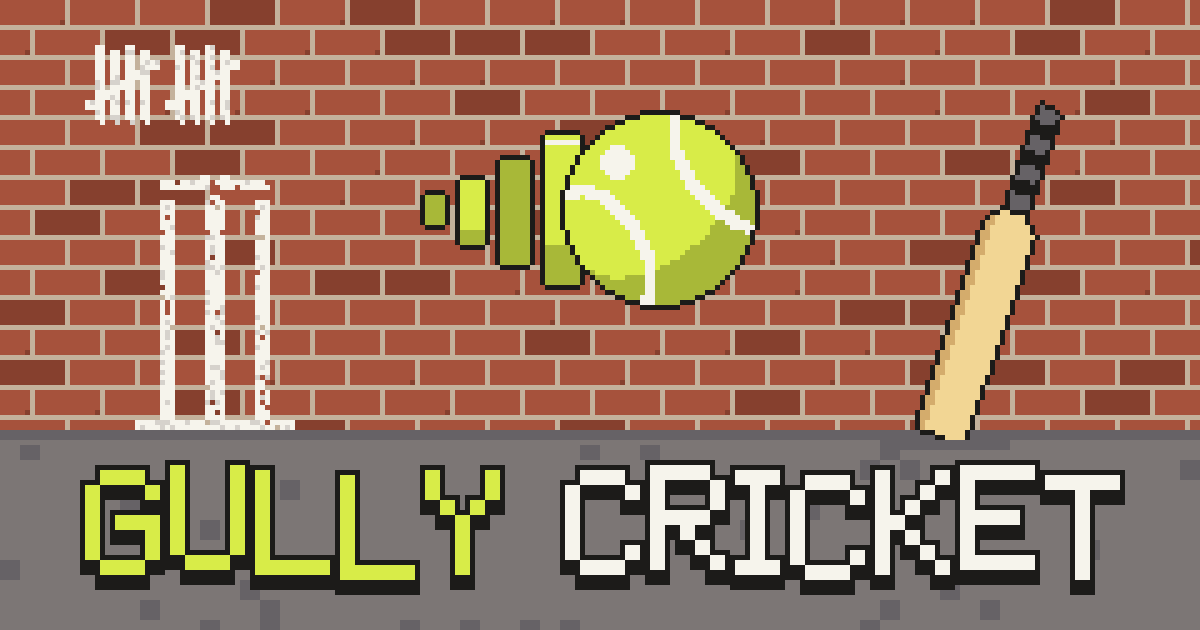
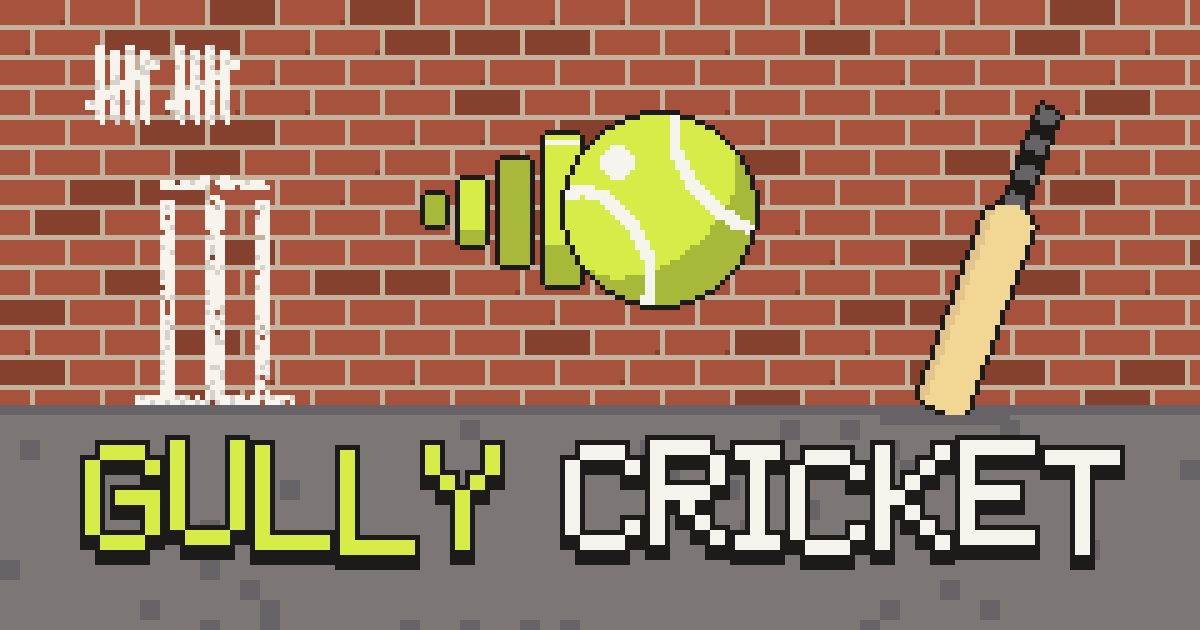
Link preview B: a batter mid-swing in front of the house fronts
A second candidate for the user to pick from (art-candidates/og-b.png). The script now fails if a title or the ball enters the 60px margin that some apps crop; that check moved A's lane and title up 5px. public/og.png stays on A until OG_PICK changes.

Agent-Id: agent-b7b191c9-51d8-4cb0-9921-bd785e0f64c9

Changed region(s): [[0.0, 0.2714, 1.0, 0.9651]]

diff --git a/scripts/make-art.js b/scripts/make-art.js
@@ -51,7 +51,7 @@ const P = {
   ball: '#d8ec48', ballShade: '#a8b838',
   brick: '#a6523c', brickDark: '#86402e', mortar: '#c4b29c',
   asphalt: '#7c7675', asphaltDark: '#666266',
-  blade: '#f2d694', bladeShade: '#d4ac6c',
+  blade: '#f2d694', bladeShade: '#e2c48c',   // the blade's shade is the plaster tone, to keep the palette small
   plaster: '#e2c48c', plasterShade: '#c8a46c', shutter: '#3e7468', door: '#3a6096',
   skin: '#c4926e', skinShade: '#9a6a4c', shirt: '#f6f4ec', shirtShade: '#d6d2cc',
 };
@@ -87,7 +87,23 @@ function title(g, text, x, y, s, gap, { fill = P.paper, edge = P.ink, drop = 2 }
   t.outline(edge, true);
   for (let d = drop; d >= 1; d--) g.draw(new Grid(t.w, t.h).draw(t).map(() => edge), x - 1, y - 2 + d);
   g.draw(t, x - 1, y - 2);
-  return { x0: x - 2, y0: y - 3, x1: x - 1 + t.w, y1: y - 2 + t.h + drop };
+  const b = inked(t);
+  return { x0: x - 1 + b.x0, y0: y - 2 + b.y0, x1: x - 1 + b.x1, y1: y - 2 + b.y1 + drop };
+}
+// the box around a grid's drawn pixels (x1, y1 exclusive)
+function inked(t) {
+  let x0 = t.w, y0 = t.h, x1 = 0, y1 = 0;
+  for (let y = 0; y < t.h; y++) for (let x = 0; x < t.w; x++) if (t.get(x, y) !== null) { x0 = Math.min(x0, x); y0 = Math.min(y0, y); x1 = Math.max(x1, x + 1); y1 = Math.max(y1, y + 1); }
+  return { x0, y0, x1, y1 };
+}
+// stop the build if a title or the ball strays into the margin that some apps crop
+function inSafe(name, b) {
+  if (b.x0 < SAFE || b.y0 < SAFE || b.x1 > OG_W - SAFE || b.y1 > OG_H - SAFE) throw new Error(`${name} leaves the safe area: ${JSON.stringify(b)}`);
+}
+function placeBall(g, ball, bx, by, name) {
+  const x = Math.round(bx - ball.w / 2), y = Math.round(by - ball.h / 2), b = inked(ball);
+  g.draw(ball, x, y);
+  inSafe(name, { x0: x + b.x0, y0: y + b.y0, x1: x + b.x1, y1: y + b.y1 });
 }
 
 /* The tennis ball seen at radius R: lit from the upper left, shaded underside, a white S-seam, ink outline.
@@ -119,8 +135,8 @@ function tennisBall(R, spin = .5, tilt = .55) {
 
 /* A stepped motion trail: blocks of shrinking height behind the ball, each a step smaller than the last.
    (x, y) is the ball's centre, r its radius, dir the direction it travels (+1 right, -1 left). */
-function trail(g, x, y, r, dir = 1) {
-  const steps = [[.78, 7], [.56, 6], [.34, 5], [.16, 4]];
+function trail(g, x, y, r, dir = 1, n = 4) {
+  const steps = [[.78, 7], [.56, 6], [.34, 5], [.16, 4]].slice(0, n);
   let edge = x - dir * (r - 3);
   steps.forEach(([k, w], i) => {
     const h = Math.round(r * 2 * k), top = Math.round(y - h / 2), gap = 3;
@@ -176,8 +192,9 @@ function bat(hx, hy, tx, ty, wide = 5.5) {
   return g.outline(P.ink);
 }
 
+const TITLE_A_Y = 89;
 function compositionA() {
-  const g = new Grid(OG_W, OG_H), groundY = 86;
+  const g = new Grid(OG_W, OG_H), groundY = 81;
   brickWall(g, 0, 0, OG_W, groundY);
   // the lane in front of the wall: a kerb line, then asphalt with a few patched squares
   g.rect(0, groundY, OG_W, OG_H - groundY, P.asphalt);
@@ -201,14 +218,102 @@ function compositionA() {
   // the ball in flight, centre right, with its trail back towards the stumps
   const R = 19, bx = 132, by = 42, ball = tennisBall(R, 1.75, .1);
   trail(g, bx, by, R, 1);
-  g.draw(ball, bx - ball.w / 2, by - ball.h / 2);
+  placeBall(g, ball, bx, by, 'A ball');
   // the title along the bottom
   const s = 3, gap = 2, w = textWidth('GULLY CRICKET', s, gap), x0 = Math.round((OG_W - w) / 2);
-  title(g, 'GULLY', x0, 94, s, gap, { fill: P.ball });
-  title(g, 'CRICKET', x0 + textWidth('GULLY ', s, gap) + gap, 94, s, gap);
+  inSafe('A title', title(g, 'GULLY', x0, TITLE_A_Y, s, gap, { fill: P.ball }));
+  inSafe('A title', title(g, 'CRICKET', x0 + textWidth('GULLY ', s, gap) + gap, TITLE_A_Y, s, gap));
   return g;
 }
 
-const candidates = { a: compositionA() };
+
+/* One body part: shapes drawn by fn into a fresh layer, an optional shade on one side of an axis, then an ink outline. */
+function part(w, h, fn) { const t = new Grid(w, h); fn(t); return t.outline(P.ink); }
+// a limb from (ax, ay) to (bx, by), shaded on the side the normal (sx, sy) points to
+function limb(t, ax, ay, bx, by, r, col, shade, side = 1, k = .3) {
+  t.capsule(ax, ay, bx, by, r, col);
+  const L = Math.hypot(bx - ax, by - ay), nx = -(by - ay) / L * side, ny = (bx - ax) / L * side;
+  t.map((c, x, y) => c === col && ((x + .5 - ax) * nx + (y + .5 - ay) * ny) > r * k ? shade : c);
+}
+
+/* The batter, facing right, just after a lofted drive: weight on the bent front leg, back heel up,
+   arms through and the bat climbing over the front shoulder. Drawn on its own grid; flip it to face left. */
+function batter() {
+  const W = 120, H = 122, g = new Grid(W, H);
+  const add = layer => g.draw(layer);
+  // back leg: hip, knee, ankle, then the shoe on its toes
+  add(part(W, H, t => { limb(t, 47, 66, 35, 89, 5.5, P.door, P.ink, -1, .62); limb(t, 35, 89, 22, 108, 4.5, P.door, P.ink, -1, .62); }));
+  add(part(W, H, t => t.poly([[17, 105], [25, 109], [29, 116], [20, 117], [14, 112]], P.ink)));
+  // back arm, behind the body
+  add(part(W, H, t => { limb(t, 48, 39, 63, 48, 3.6, P.shirt, P.shirtShade, 1); limb(t, 63, 48, 81, 40, 3.2, P.skin, P.skinShade, 1); }));
+  // the body: shirt, leaning a little forward, belt line at the hips
+  add(part(W, H, t => {
+    t.poly([[44, 33], [62, 31], [66, 40], [63, 66], [43, 67], [41, 50]], P.shirt);
+    t.map((c, x, y) => x < 46 + (y - 33) * -.05 || (x < 50 && y > 50) ? P.shirtShade : c);
+    t.rect(43, 63, 21, 4, P.door);
+    t.poly([[50, 31], [61, 30], [57, 38]], P.shirtShade);                 // open collar
+    t.poly([[52.5, 31], [59, 30.5], [56.5, 35]], P.skinShade);
+    for (let y = 40; y < 62; y += 7) t.set(57 + Math.round((y - 40) * .1), y, P.shirtShade);   // buttons
+  }));
+  // neck and head: the batter looks up after the ball
+  add(part(W, H, t => {
+    t.rect(52, 26, 6, 7, P.skinShade);
+    t.disc(57, 19, 8.5, P.skin);
+    t.each((x, y) => Math.hypot(x - 55, y - 17) < 9 && (x < 56 || y < 13.5 - (x - 56) * .25), P.ink, 44, 6, 68, 28);   // hair: back and top
+    t.set(62, 16, P.ink); t.set(62, 17, P.ink);                                                         // the eye, looking up at the ball
+    t.rect(61, 14, 3, 1, P.ink);                                                                         // brow
+    t.set(66, 19, P.skin); t.set(66, 20, P.skinShade);                                                   // nose
+    t.rect(61, 23, 3, 1, P.skinShade);                                                                   // mouth
+    t.rect(55, 20, 2, 3, P.skinShade);                                                                  // ear
+  }));
+  // front leg: a long stride, knee over the toes, the shoe flat
+  add(part(W, H, t => { limb(t, 58, 66, 84, 82, 5.8, P.door, P.ink, -1, .62); limb(t, 84, 82, 82, 109, 4.6, P.door, P.ink, -1, .62); }));
+  add(part(W, H, t => t.poly([[77, 107], [87, 108], [94, 113], [94, 117], [76, 117]], P.ink)));
+  // the bat, then the front arm and both hands over its handle
+  g.draw(batOn(W, H, 77, 44, 112, 7, 10));
+  add(part(W, H, t => { limb(t, 61, 37, 73, 44, 3.8, P.shirt, P.shirtShade, 1); limb(t, 73, 44, 84, 37, 3.3, P.skin, P.skinShade, 1); }));
+  add(part(W, H, t => { t.disc(83.5, 37.5, 3.6, P.skin); t.disc(80.5, 41, 3.4, P.skin); t.set(84, 39, P.skinShade); t.set(81, 42, P.skinShade); }));
+  return g;
+}
+// the bat drawn onto a w×h layer (bat() draws on the og grid)
+function batOn(w, h, hx, hy, tx, ty, wide) { const b = bat(hx, hy, tx, ty, wide); const g = new Grid(w, h); g.draw(b); return g; }
+const mirror = g => { const m = new Grid(g.w, g.h); for (let y = 0; y < g.h; y++) for (let x = 0; x < g.w; x++) m.set(g.w - 1 - x, y, g.get(x, y)); return m; };
+
+function compositionB() {
+  const g = new Grid(OG_W, OG_H), laneY = 84;
+  // sky, then a run of plastered house fronts with a parapet
+  g.rect(0, 0, OG_W, laneY, P.plaster);
+  g.rect(0, 0, OG_W, 6, P.paper);
+  g.rect(0, 6, OG_W, 3, P.blade);
+  g.rect(0, 9, OG_W, 1, P.ink);
+  for (const x of [78, 168]) g.rect(x, 10, 2, laneY - 10, P.asphalt);                           // drainpipes between houses
+  // a shuttered window and a blue door
+  const win = (x, y) => { g.rect(x - 1, y - 1, 30, 26, P.ink); g.rect(x, y, 28, 24, P.door); g.rect(x + 8, y + 2, 12, 20, P.ink); g.rect(x + 13, y + 2, 2, 20, P.door); for (let k = 0; k < 6; k++) { g.rect(x + 1, y + 3 + k * 3, 6, 1, P.ink); g.rect(x + 21, y + 3 + k * 3, 6, 1, P.ink); } };
+  win(30, 22);
+  g.rect(195, 30, 26, laneY - 30, P.ink); g.rect(197, 32, 22, laneY - 32, P.door); g.rect(207, 32, 2, laneY - 32, P.ink);
+  // footpath, kerb and the lane
+  g.rect(0, laneY, OG_W, 5, P.chalkDim);
+  g.rect(0, laneY + 5, OG_W, 1, P.asphaltDark);
+  g.rect(0, laneY + 6, OG_W, OG_H - laneY - 6, P.asphalt);
+  g.each((x, y) => hash(x >> 2, y >> 2) < .05, P.asphaltDark, 0, laneY + 8, OG_W, OG_H);
+  // the brick stumps up the lane behind the batter: four bricks stacked
+  for (let k = 0; k < 4; k++) { g.rect(224, 98 - k * 4, 11, 4, P.ink); g.rect(225, 99 - k * 4, 9, 2, P.brick); }
+  g.rect(140, 119, 100, 2, P.paper);                                                              // chalk crease
+  g.rect(136, 120, 92, 3, P.asphaltDark); g.rect(146, 123, 70, 1, P.asphaltDark);                // his shadow on the lane
+  // the batter, flipped to face left
+  const fig = mirror(batter());
+  g.draw(fig, 236 - fig.w, 125 - fig.h + 2);
+  // the ball, just off the bat and climbing away to the left, trail back towards the bat
+  const R = 13, bx = 98, by = 29, ball = tennisBall(R, 1.75, .1);
+  trail(g, bx, by, R, -1, 3);
+  placeBall(g, ball, bx, by, 'B ball');
+  // the title, stacked at the lower left
+  const s = 3, gap = 2;
+  inSafe('B title', title(g, 'GULLY', SAFE + 2, 60, s, gap, { fill: P.ball }));
+  inSafe('B title', title(g, 'CRICKET', SAFE + 2, 88, s, gap));
+  return g;
+}
+
+const candidates = { a: compositionA(), b: compositionB() };
 for (const [k, g] of Object.entries(candidates)) out(`art-candidates/og-${k}.png`, png(g, OG_SCALE));
 out('public/og.png', png(candidates[OG_PICK], OG_SCALE));
